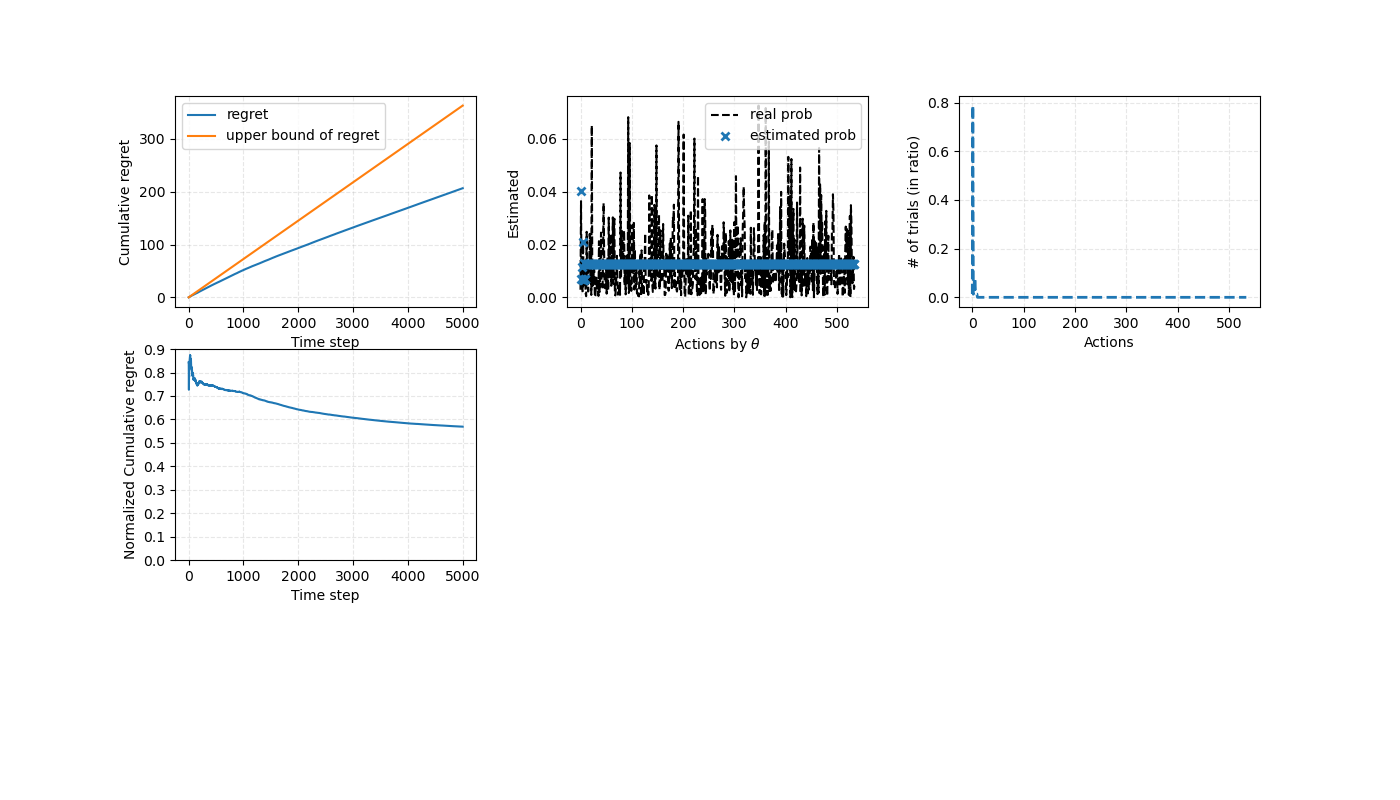
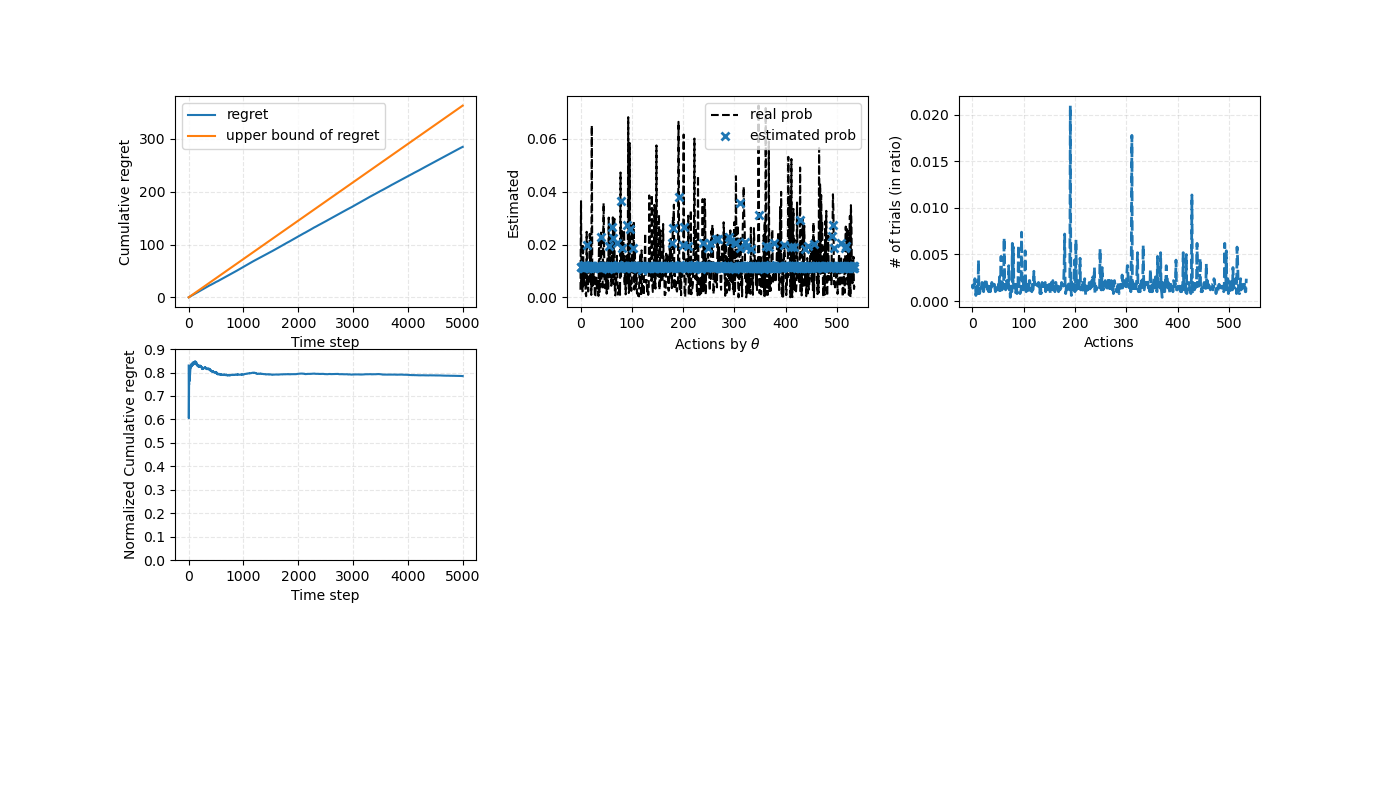
add all

diff --git a/main.py b/main.py
@@ -86,6 +86,12 @@ def plot_results(solvers, solver_names, figname, show):
 
     # Sub.fig. 3: Action counts
     for s in solvers:
+        print("Most frequently used arm: {}".format(np.argmax(s.counts)))
+        if np.argmax(s.counts) == b.best_arm:
+            print("Best arm found.")
+        else:
+            print("Best arm not found.")
+        
         # ax3.plot(range(b.n), np.array(s.counts) / float(len(solvers[0].regrets)), ls='steps', lw=2)
         ax3.plot(
             range(b.k),
@@ -113,10 +119,11 @@ def experiment(K, C, N, show=False):
     """
 
     b = CategoricalBandit(K, C)
-    print("Randomly generated Categorical bandit has reward probabilities:\n", b.probas)
+    print("Config: K={}, C={}, N={}".format(K, C, N))
+    # print("Randomly generated Categorical bandit has reward probabilities:\n", b.probas)
     print(
-        "The best machine has index for category of interest {}: {} and proba: {}".format(
-            b.coi, b.best_arm, b.best_proba
+        "The best machine has index {} for category of interest {} and best proba {}".format(
+            b.best_arm, b.coi, b.best_proba
         )
     )
 
@@ -131,4 +138,4 @@ def experiment(K, C, N, show=False):
 
 if __name__ == "__main__":
     for i in range(12):
-        experiment(10, 2**i, 5000, show=False)
+        experiment(10, 2**(i+1), 5000, show=False)

diff --git a/large_n_c_problem.py b/large_n_c_problem.py
@@ -6,4 +6,4 @@ if __name__ == "__main__":
     # number of categories in LDA (so called "general issue code", e.g. TRA = Transportation) = 79
     # number of legislators in US Congress
         # There are a total of 535 Members of Congress. 100 serve in the U.S. Senate and 435 serve in the U.S. House of Representatives.
-    experiment(N=5000, C=79, K=535, show=True)
+    experiment(N=1000000, C=79, K=535, show=True) # cf. 79 * 535 = 42,265
